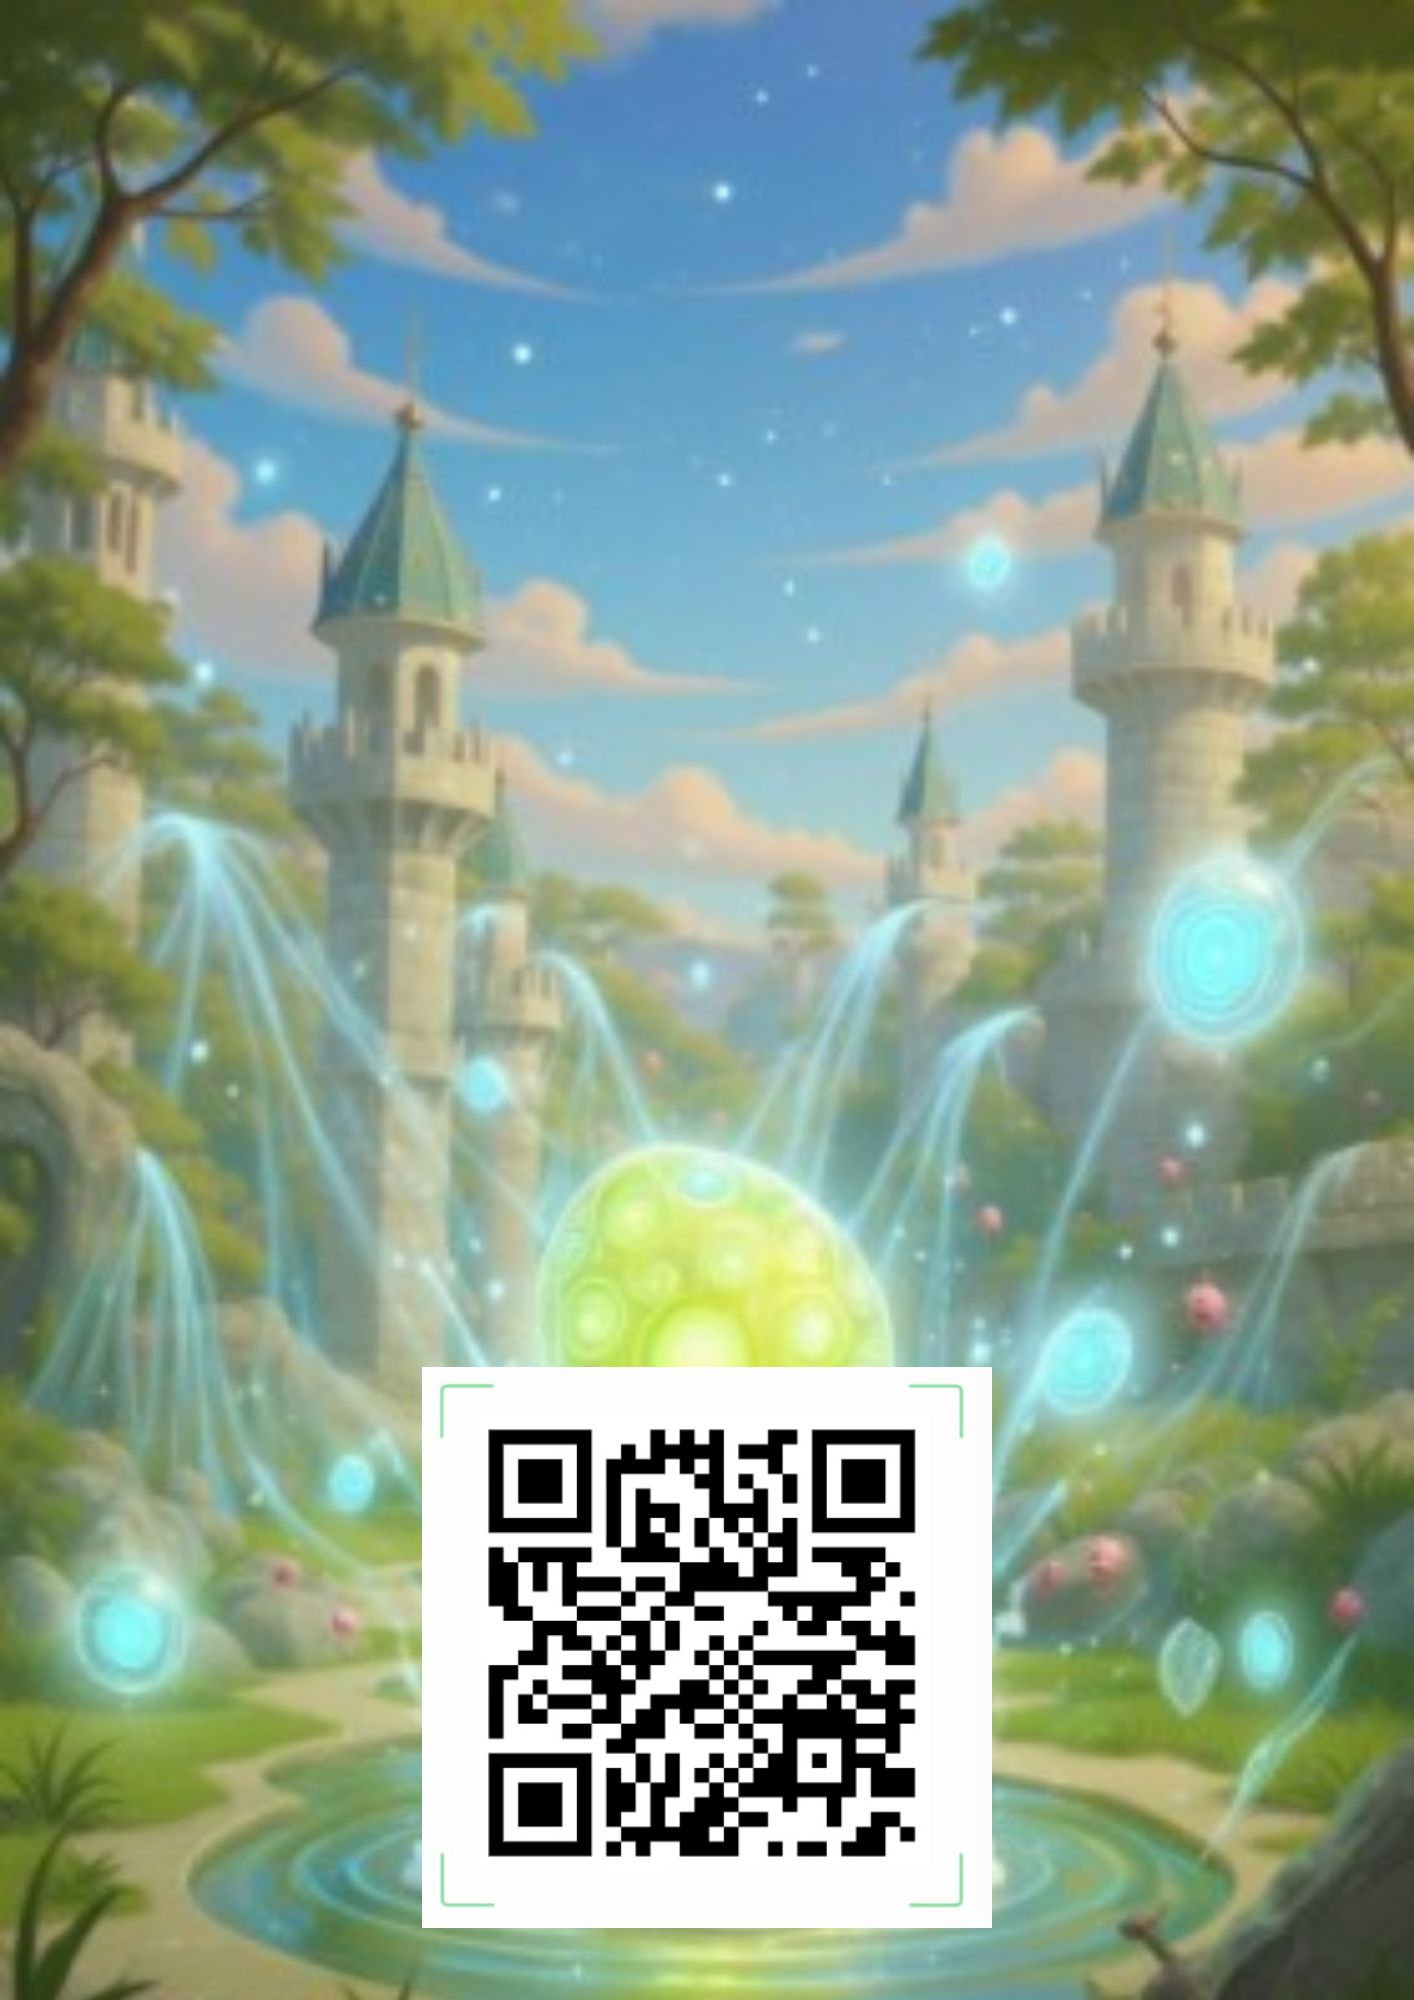
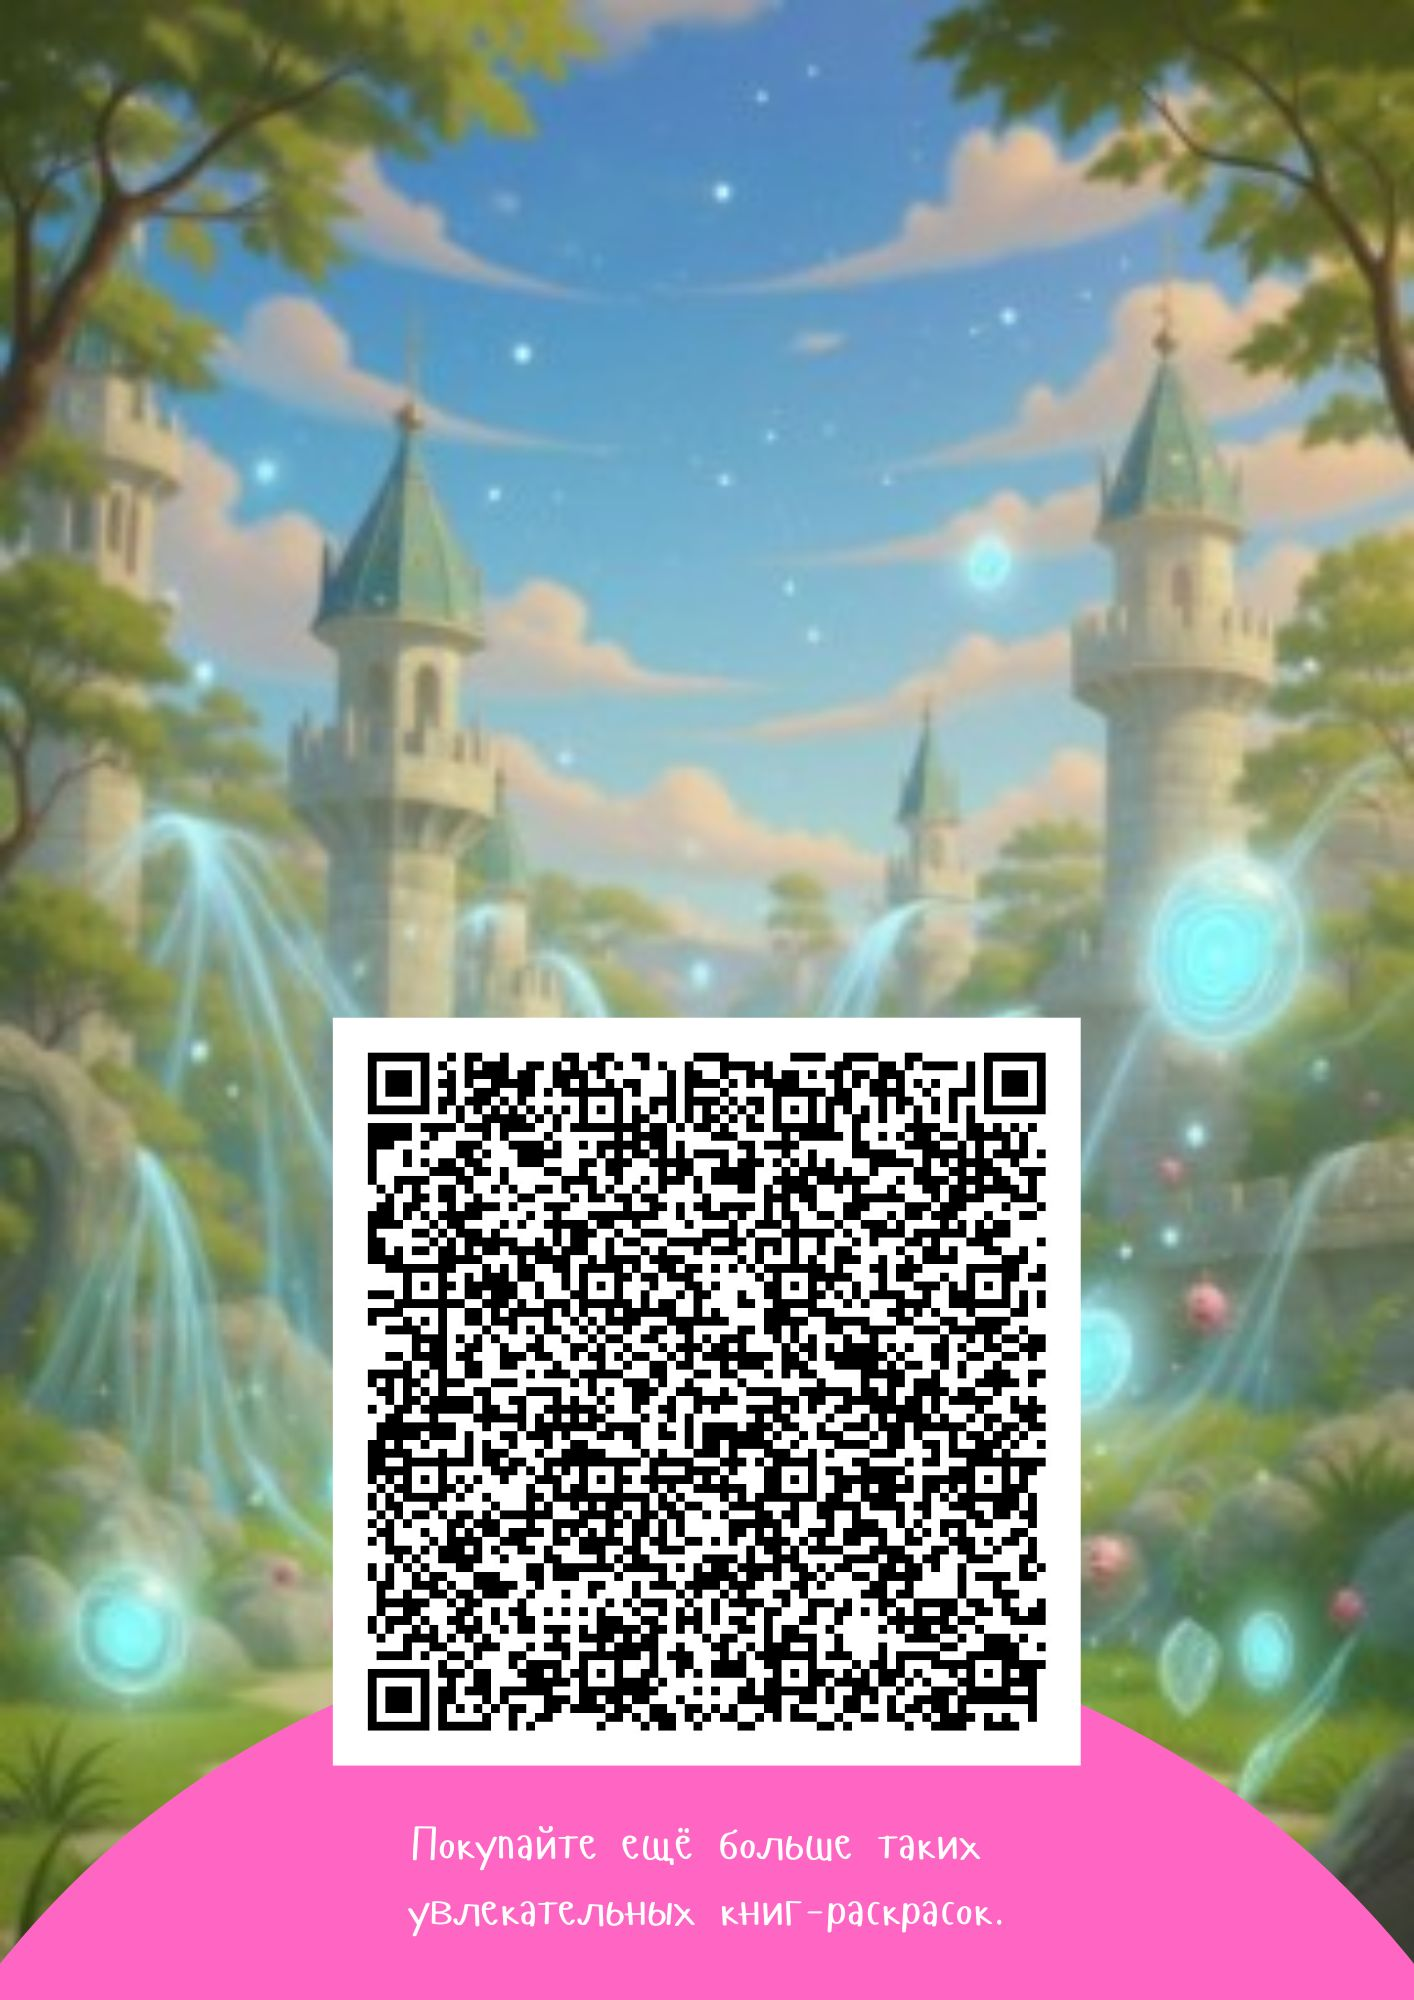
feat: added books related to security and fixed cover pages

Changed region(s): [[0.0, 0.496, 1.0, 1.0]]

diff --git a/index.html b/index.html
@@ -563,8 +563,8 @@
                 { id: "basic-4", title: "Рыцарь Прачечной", short_desc: "Свежая одежда дарит уверенность и порядок.", pages: "book_basic_fourth_1.jpg,book_basic_fourth_2.jpg,book_basic_end.jpg", full_desc: "Эта история учит ребёнка аккуратности и любви к порядку. Чистая одежда — это не просто скучная обязанность, а доспехи, которые дарят уверенность и силу для новых свершений." }
             ],
             "Безопастность": [
-                { id: "security-1", title: "Спасательный отряд Айдара: «Водные спасатели»", short_desc: "Как мытьё рук спасает целое королевство.", pages: "book_security_first_1.jpg,book_basic_end.jpg", full_desc: "Айдар и его верный робот-помощник патрулируют побережье и учат малышей правилам безопасности на воде. С их помощью зверята узнают, как правильно пользоваться спасательным кругом, не заплывать за буйки и всегда быть начеку у воды. В финале Айдар открывает Школу Юных Спасателей, где каждый может стать героем пляжа!" },
-                { id: "security-2", title: "Спасательный отряд Армана: «Город безопасности»", short_desc: "Ежедневная чистка зубов — лучшая защита.", pages: "book_security_second_1.jpg,book_basic_end.jpg", full_desc: "Арман со своим дружелюбным роботом охраняют улицы Города Осторожности. Они помогают зверятам переходить дорогу на зелёный свет, не разговаривать с незнакомцами и знать, что делать в экстренной ситуации. Каждый день — новая миссия! В конце Арман открывает Академию Безопасности, чтобы каждый житель знал, как защитить себя и других." }
+                { id: "security-1", title: "Спасательный отряд Айдара: «Водные спасатели»", short_desc: "Как мытьё рук спасает целое королевство.", pages: "book_security_first_1.jpg,book_security_end.jpg", full_desc: "Айдар и его верный робот-помощник патрулируют побережье и учат малышей правилам безопасности на воде. С их помощью зверята узнают, как правильно пользоваться спасательным кругом, не заплывать за буйки и всегда быть начеку у воды. В финале Айдар открывает Школу Юных Спасателей, где каждый может стать героем пляжа!" },
+                { id: "security-2", title: "Спасательный отряд Армана: «Город безопасности»", short_desc: "Ежедневная чистка зубов — лучшая защита.", pages: "book_security_second_1.jpg,book_security_end.jpg", full_desc: "Арман со своим дружелюбным роботом охраняют улицы Города Осторожности. Они помогают зверятам переходить дорогу на зелёный свет, не разговаривать с незнакомцами и знать, что делать в экстренной ситуации. Каждый день — новая миссия! В конце Арман открывает Академию Безопасности, чтобы каждый житель знал, как защитить себя и других." }
             ]
         };
 
